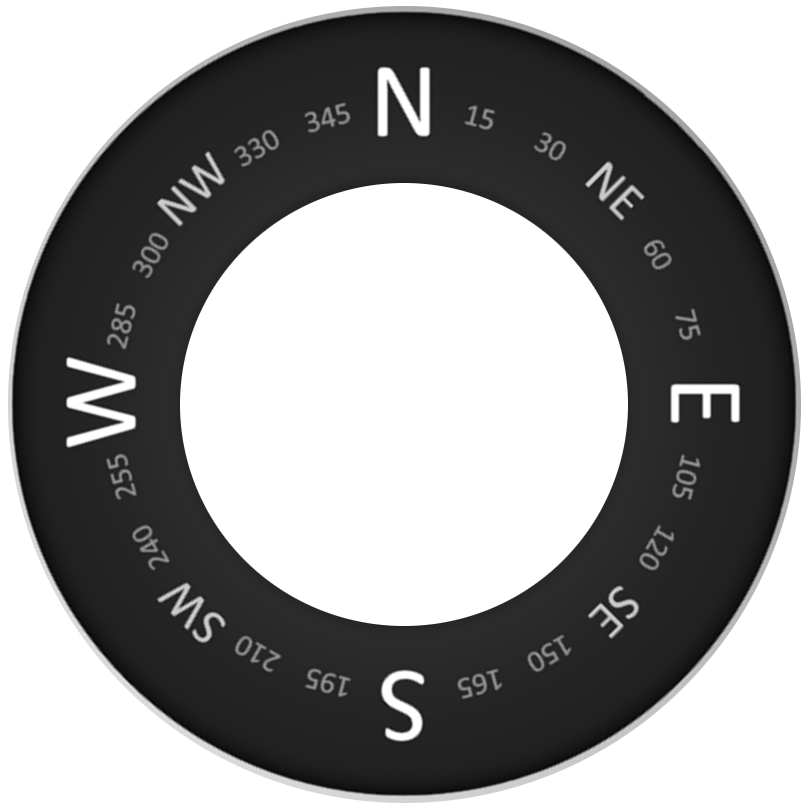
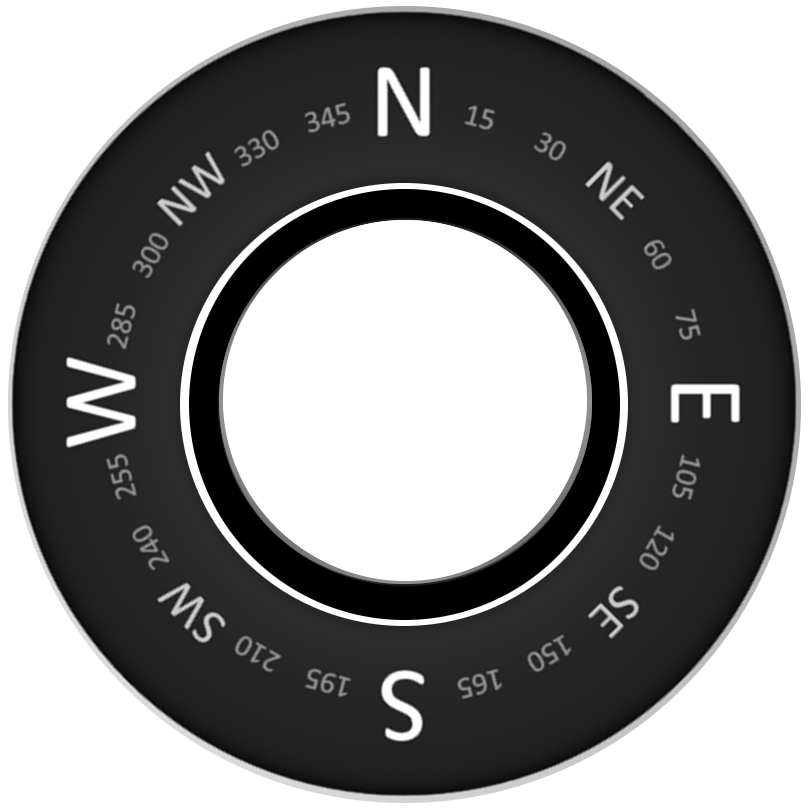
First commit of the gui flat style

Changed region(s): [[0.216, 0.216, 0.7716, 0.7716]]

diff --git a/sdlSpeedometer.c b/sdlSpeedometer.c
@@ -233,7 +233,7 @@ printf("%s\n", buf);
         strcpy(configParams->server,    (char*)sqlite3_column_text(res, 2));
         configParams->port =            sqlite3_column_int(res, 3);
         configParams->vncPort =         sqlite3_column_int(res, 4);
-		configParams->style =         	sqlite3_column_int(res, 5);
+        configParams->style =         	sqlite3_column_int(res, 5);
         strcpy(configParams->snd_card,  (char*)sqlite3_column_text(res, 6));
         strcpy(configParams->cam_url,   (char*)sqlite3_column_text(res, 7));
     } else {
@@ -1565,6 +1565,7 @@ static int doCompass(sdl2_app *sdlApp)
     TTF_Font* fontTod = TTF_OpenFont(sdlApp->fontPath, 16);
 
 	SDL_Texture* compassRose;
+    SDL_Texture* textBox;
     SDL_Texture* outerRing = IMG_LoadTexture(sdlApp->renderer, IMAGE_PATH "outerRing.png");
     SDL_Texture* windDir = IMG_LoadTexture(sdlApp->renderer, IMAGE_PATH "windDir.png");
     SDL_Texture* menuBar = IMG_LoadTexture(sdlApp->renderer, IMAGE_PATH "menuBar.png");
@@ -1572,16 +1573,17 @@ static int doCompass(sdl2_app *sdlApp)
     SDL_Texture* noNetStatbar = IMG_LoadTexture(sdlApp->renderer, IMAGE_PATH "noNetStat.png");
     SDL_Texture* muteBar = IMG_LoadTexture(sdlApp->renderer, IMAGE_PATH "mute.png");
     SDL_Texture* unmuteBar = IMG_LoadTexture(sdlApp->renderer, IMAGE_PATH "unmute.png");
-    SDL_Texture* textBox = IMG_LoadTexture(sdlApp->renderer, IMAGE_PATH "textBox.png");
     SDL_Texture* clinoMeter = IMG_LoadTexture(sdlApp->renderer, IMAGE_PATH "clinometer.png");
 
     SDL_Texture* calBar = NULL;
 
-	if (sdlApp->conf->style == 0) {
-		compassRose = IMG_LoadTexture(sdlApp->renderer, IMAGE_PATH "compassRose.png");
-	} else {
-		compassRose = IMG_LoadTexture(sdlApp->renderer, IMAGE_PATH "compassRose-flat.png");
-	}
+    if (sdlApp->conf->style == 0) {
+        compassRose = IMG_LoadTexture(sdlApp->renderer, IMAGE_PATH "compassRose.png");
+        textBox = IMG_LoadTexture(sdlApp->renderer, IMAGE_PATH "textBox.png");
+    } else {
+        compassRose = IMG_LoadTexture(sdlApp->renderer, IMAGE_PATH "compassRose-flat.png");
+        textBox = IMG_LoadTexture(sdlApp->renderer, IMAGE_PATH "textBox-flat.png");
+    }
 
     sdlApp->curPage = COGPAGE;
 
@@ -1748,7 +1750,8 @@ static int doCompass(sdl2_app *sdlApp)
 
         SDL_RenderClear(sdlApp->renderer);
 
-        SDL_RenderCopy(sdlApp->renderer, Background_Tx, NULL, NULL);
+        if (sdlApp->conf->style == 0)
+            SDL_RenderCopy(sdlApp->renderer, Background_Tx, NULL, NULL);
 
         if (sdlApp->conf->style == 0)
             SDL_RenderCopyEx(sdlApp->renderer, outerRing, NULL, &outerRingR, 0, NULL, SDL_FLIP_NONE);
@@ -1820,7 +1823,7 @@ static int doCompass(sdl2_app *sdlApp)
         SDL_RenderCopyEx(sdlApp->renderer, menuBar, NULL, &menuBarR, 0, NULL, SDL_FLIP_NONE);
         addMenuItems(sdlApp, fontSrc);
 
-        if (boxItem && sdlApp->conf->style == 0) {
+        if (boxItem) {
             textBoxR.h = boxItem*50 +30;
             SDL_RenderCopyEx(sdlApp->renderer, textBox, NULL, &textBoxR, 0, NULL, SDL_FLIP_NONE);
         }
@@ -1916,11 +1919,13 @@ static int doSumlog(sdl2_app *sdlApp)
 
     sdlApp->curPage = SOGPAGE;
 
-	if (sdlApp->conf->style == 0) {
-		gaugeSumlog = IMG_LoadTexture(sdlApp->renderer, IMAGE_PATH "sumlog.png");
-	} else {
-		gaugeSumlog = IMG_LoadTexture(sdlApp->renderer, IMAGE_PATH "sumlog-flat.png");
-	}
+    if (sdlApp->conf->style == 0) {
+        gaugeSumlog = IMG_LoadTexture(sdlApp->renderer, IMAGE_PATH "sumlog.png");
+        textBox = IMG_LoadTexture(sdlApp->renderer, IMAGE_PATH "textBox.png");
+    } else {
+        gaugeSumlog = IMG_LoadTexture(sdlApp->renderer, IMAGE_PATH "sumlog-flat.png");
+        textBox = IMG_LoadTexture(sdlApp->renderer, IMAGE_PATH "textBox-flat.png");
+    }
 
     SDL_Texture* subTaskbar = NULL;
 
@@ -2049,7 +2054,8 @@ static int doSumlog(sdl2_app *sdlApp)
 
         SDL_RenderClear(sdlApp->renderer);
 
-        SDL_RenderCopy(sdlApp->renderer, Background_Tx, NULL, NULL);
+        if (sdlApp->conf->style == 0)
+            SDL_RenderCopy(sdlApp->renderer, Background_Tx, NULL, NULL);
        
         SDL_RenderCopyEx(sdlApp->renderer, gaugeSumlog, NULL, &gaugeR, 0, NULL, SDL_FLIP_NONE);
 
@@ -2103,7 +2109,7 @@ static int doSumlog(sdl2_app *sdlApp)
             }
         }
 
-        if (boxItem && sdlApp->conf->style == 0) {
+        if (boxItem) {
             textBoxR.h = boxItem*50 +30;
             SDL_RenderCopyEx(sdlApp->renderer, textBox, NULL, &textBoxR, 0, NULL, SDL_FLIP_NONE);
         }
@@ -2155,7 +2161,7 @@ static int doGps(sdl2_app *sdlApp)
     TTF_Font* fontSrc = TTF_OpenFont(sdlApp->fontPath, 14);
     TTF_Font* fontTod = TTF_OpenFont(sdlApp->fontPath, 16);
 
-    SDL_Texture* gaugeGps = IMG_LoadTexture(sdlApp->renderer, IMAGE_PATH "gps.png");
+    SDL_Texture* gaugeGps;
     SDL_Texture* menuBar = IMG_LoadTexture(sdlApp->renderer, IMAGE_PATH "menuBar.png");
     SDL_Texture* netStatBar = IMG_LoadTexture(sdlApp->renderer, IMAGE_PATH "netStat.png");
     SDL_Texture* noNetStatbar = IMG_LoadTexture(sdlApp->renderer, IMAGE_PATH "noNetStat.png");
@@ -2164,6 +2170,14 @@ static int doGps(sdl2_app *sdlApp)
     SDL_Texture* textBox = IMG_LoadTexture(sdlApp->renderer, IMAGE_PATH "textBox.png");
       
     sdlApp->curPage = GPSPAGE;
+
+    if (sdlApp->conf->style == 0) {
+        gaugeGps = IMG_LoadTexture(sdlApp->renderer, IMAGE_PATH "gps.png");
+        textBox = IMG_LoadTexture(sdlApp->renderer, IMAGE_PATH "textBox.png");
+    } else {
+        gaugeGps = IMG_LoadTexture(sdlApp->renderer, IMAGE_PATH "gps-flat.png");
+        textBox = IMG_LoadTexture(sdlApp->renderer, IMAGE_PATH "textBox-flat.png");
+    }
   
     SDL_Texture* subTaskbar = NULL;
 
@@ -2270,7 +2284,15 @@ static int doGps(sdl2_app *sdlApp)
 
         SDL_UnlockMutex(sdlApp->conf->nm_mutex);
 
-        SDL_RenderCopy(sdlApp->renderer, Background_Tx, NULL, NULL);
+        if (sdlApp->conf->style == 0)
+            SDL_SetRenderDrawColor(sdlApp->renderer, 0, 0, 0, 255);
+        else
+            SDL_SetRenderDrawColor(sdlApp->renderer, 105, 100, 110, 255);
+
+        SDL_RenderClear(sdlApp->renderer);
+
+        if (sdlApp->conf->style == 0)
+            SDL_RenderCopy(sdlApp->renderer, Background_Tx, NULL, NULL);
        
         SDL_RenderCopyEx(sdlApp->renderer, gaugeGps, NULL, &gaugeR, 0, NULL, SDL_FLIP_NONE);
 
@@ -2377,19 +2399,31 @@ static int doDepth(sdl2_app *sdlApp)
     TTF_Font* fontSrc = TTF_OpenFont(sdlApp->fontPath, 14);
     TTF_Font* fontTod = TTF_OpenFont(sdlApp->fontPath, 16);
 
-    SDL_Texture* gaugeDepthW = IMG_LoadTexture(sdlApp->renderer, IMAGE_PATH "depthw.png");
-    SDL_Texture* gaugeDepth = IMG_LoadTexture(sdlApp->renderer, IMAGE_PATH "depth.png");
-    SDL_Texture* gaugeDepthx10 = IMG_LoadTexture(sdlApp->renderer, IMAGE_PATH "depthx10.png");
+    SDL_Texture* gaugeDepthW;
+    SDL_Texture* gaugeDepth;
+    SDL_Texture* gaugeDepthx10;
+    SDL_Texture* textBox;
     SDL_Texture* menuBar = IMG_LoadTexture(sdlApp->renderer, IMAGE_PATH "menuBar.png");
     SDL_Texture* netStatBar = IMG_LoadTexture(sdlApp->renderer, IMAGE_PATH "netStat.png");
     SDL_Texture* noNetStatbar = IMG_LoadTexture(sdlApp->renderer, IMAGE_PATH "noNetStat.png");
     SDL_Texture* gaugeNeedleApp = IMG_LoadTexture(sdlApp->renderer, IMAGE_PATH "needle.png");
     SDL_Texture* muteBar = IMG_LoadTexture(sdlApp->renderer, IMAGE_PATH "mute.png");
     SDL_Texture* unmuteBar = IMG_LoadTexture(sdlApp->renderer, IMAGE_PATH "unmute.png");
-    SDL_Texture* textBox = IMG_LoadTexture(sdlApp->renderer, IMAGE_PATH "textBox.png");
     SDL_Texture* gauge;
 
     sdlApp->curPage = DPTPAGE;
+
+    if (sdlApp->conf->style == 0) {
+        gaugeDepthW = IMG_LoadTexture(sdlApp->renderer, IMAGE_PATH "depthw.png");
+        gaugeDepthx10 = IMG_LoadTexture(sdlApp->renderer, IMAGE_PATH "depthx10.png");
+        gaugeDepth = IMG_LoadTexture(sdlApp->renderer, IMAGE_PATH "depth.png");
+        textBox = IMG_LoadTexture(sdlApp->renderer, IMAGE_PATH "textBox.png");
+    } else {
+        gaugeDepthW = IMG_LoadTexture(sdlApp->renderer, IMAGE_PATH "depthw-flat.png");
+        gaugeDepthx10 = IMG_LoadTexture(sdlApp->renderer, IMAGE_PATH "depthx10-flat.png");
+        gaugeDepth = IMG_LoadTexture(sdlApp->renderer, IMAGE_PATH "depth-flat.png");
+        textBox = IMG_LoadTexture(sdlApp->renderer, IMAGE_PATH "textBox-flat.png");
+    }
 
     SDL_Texture* subTaskbar = NULL;
 
@@ -2523,7 +2557,15 @@ static int doDepth(sdl2_app *sdlApp)
         if (angle > t_angle) t_angle += 3.2 * (fabsf(angle -t_angle) / 24) ;
         else if (angle < t_angle) t_angle -= 3.2 * (fabsf(angle -t_angle) / 24);
 
-        SDL_RenderCopy(sdlApp->renderer, Background_Tx, NULL, NULL);
+        if (sdlApp->conf->style == 0)
+            SDL_SetRenderDrawColor(sdlApp->renderer, 0, 0, 0, 255);
+        else
+            SDL_SetRenderDrawColor(sdlApp->renderer, 105, 100, 110, 255);
+
+        SDL_RenderClear(sdlApp->renderer);
+
+        if (sdlApp->conf->style == 0)
+            SDL_RenderCopy(sdlApp->renderer, Background_Tx, NULL, NULL);
     
         if (!sdlApp->plotMode) {
             SDL_RenderCopyEx(sdlApp->renderer, gauge, NULL, &gaugeR, 0, NULL, SDL_FLIP_NONE);
@@ -2846,7 +2888,8 @@ static int doWind(sdl2_app *sdlApp)
     TTF_Font* fontSrc = TTF_OpenFont(sdlApp->fontPath, 14);
     TTF_Font* fontTod = TTF_OpenFont(sdlApp->fontPath, 16);
 
-    SDL_Texture* gaugeSumlog = IMG_LoadTexture(sdlApp->renderer, IMAGE_PATH "wind.png");
+    SDL_Texture* gaugeWind;
+    SDL_Texture* textBox;
     SDL_Texture* gaugeNeedleApp = IMG_LoadTexture(sdlApp->renderer, IMAGE_PATH "needle.png");
     SDL_Texture* gaugeNeedleTrue = IMG_LoadTexture(sdlApp->renderer, IMAGE_PATH "needle-black.png");
     SDL_Texture* menuBar = IMG_LoadTexture(sdlApp->renderer, IMAGE_PATH "menuBar.png");
@@ -2854,11 +2897,18 @@ static int doWind(sdl2_app *sdlApp)
     SDL_Texture* noNetStatbar = IMG_LoadTexture(sdlApp->renderer, IMAGE_PATH "noNetStat.png");
     SDL_Texture* muteBar = IMG_LoadTexture(sdlApp->renderer, IMAGE_PATH "mute.png");
     SDL_Texture* unmuteBar = IMG_LoadTexture(sdlApp->renderer, IMAGE_PATH "unmute.png");
-    SDL_Texture* textBox = IMG_LoadTexture(sdlApp->renderer, IMAGE_PATH "textBox.png");
 
     sdlApp->curPage = WNDPAGE;
 
     SDL_Texture* subTaskbar = NULL;
+
+    if (sdlApp->conf->style == 0) {
+        textBox = IMG_LoadTexture(sdlApp->renderer, IMAGE_PATH "textBox.png");
+        gaugeWind = IMG_LoadTexture(sdlApp->renderer, IMAGE_PATH "wind.png");
+    } else {
+        textBox = IMG_LoadTexture(sdlApp->renderer, IMAGE_PATH "textBox-flat.png");
+        gaugeWind = IMG_LoadTexture(sdlApp->renderer, IMAGE_PATH "wind-flat.png");
+    }
 
     if (sdlApp->subAppsCmd[sdlApp->curPage][0] != NULL) {
         char icon[PATH_MAX];
@@ -2995,9 +3045,17 @@ static int doWind(sdl2_app *sdlApp)
         if (angle_t > t_angle_t) t_angle_t += 3.2 * (fabsf(angle_t -t_angle_t) / 24) ;
         else if (angle_t < t_angle_t) t_angle_t -= 3.2 * (fabsf(angle_t -t_angle_t) / 24);
 
-        SDL_RenderCopy(sdlApp->renderer, Background_Tx, NULL, NULL);
+        if (sdlApp->conf->style == 0)
+            SDL_SetRenderDrawColor(sdlApp->renderer, 0, 0, 0, 255);
+        else
+            SDL_SetRenderDrawColor(sdlApp->renderer, 105, 100, 110, 255);
+
+        SDL_RenderClear(sdlApp->renderer);
+
+        if (sdlApp->conf->style == 0)
+            SDL_RenderCopy(sdlApp->renderer, Background_Tx, NULL, NULL);
        
-        SDL_RenderCopyEx(sdlApp->renderer, gaugeSumlog, NULL, &gaugeR, 0, NULL, SDL_FLIP_NONE);
+        SDL_RenderCopyEx(sdlApp->renderer, gaugeWind, NULL, &gaugeR, 0, NULL, SDL_FLIP_NONE);
 
         if (!(ct - cnmea.vwr_ts > S_TIMEOUT || cnmea.vwra == 0))
             SDL_RenderCopyEx(sdlApp->renderer, gaugeNeedleApp, NULL, &needleR, t_angle_a, NULL, SDL_FLIP_NONE);
@@ -3082,7 +3140,7 @@ static int doWind(sdl2_app *sdlApp)
     if (subTaskbar != NULL) {
         SDL_DestroyTexture(subTaskbar);
     }
-    SDL_DestroyTexture(gaugeSumlog);
+    SDL_DestroyTexture(gaugeWind);
     SDL_DestroyTexture(gaugeNeedleApp);
     SDL_DestroyTexture(gaugeNeedleTrue);
     SDL_DestroyTexture(menuBar);
@@ -3130,16 +3188,27 @@ static int doEnvironment(sdl2_app *sdlApp)
     SDL_Texture* noNetStatbar = IMG_LoadTexture(sdlApp->renderer, IMAGE_PATH "noNetStat.png");
     SDL_Texture* muteBar = IMG_LoadTexture(sdlApp->renderer, IMAGE_PATH "mute.png");
     SDL_Texture* unmuteBar = IMG_LoadTexture(sdlApp->renderer, IMAGE_PATH "unmute.png");
-
-    SDL_Texture* gaugeVolt = IMG_LoadTexture(sdlApp->renderer, IMAGE_PATH "volt.png");
-    SDL_Texture* gaugeVolt24 = IMG_LoadTexture(sdlApp->renderer, IMAGE_PATH "volt-24.png");
-    SDL_Texture* gaugeCurr = IMG_LoadTexture(sdlApp->renderer, IMAGE_PATH "curr.png");
-    SDL_Texture* gaugeTemp = IMG_LoadTexture(sdlApp->renderer, IMAGE_PATH "temp.png");
     SDL_Texture* needleVolt = IMG_LoadTexture(sdlApp->renderer, IMAGE_PATH "sneedle.png");
     SDL_Texture* needleCurr = IMG_LoadTexture(sdlApp->renderer, IMAGE_PATH "sneedle.png");
     SDL_Texture* needleTemp = IMG_LoadTexture(sdlApp->renderer, IMAGE_PATH "sneedle.png");
+    SDL_Texture* gaugeVolt;
+    SDL_Texture* gaugeVolt24;
+    SDL_Texture* gaugeCurr;
+    SDL_Texture* gaugeTemp ;
 
     sdlApp->curPage = PWRPAGE;
+
+    if (sdlApp->conf->style == 0) {
+        gaugeVolt = IMG_LoadTexture(sdlApp->renderer, IMAGE_PATH "volt.png");
+        gaugeVolt24 = IMG_LoadTexture(sdlApp->renderer, IMAGE_PATH "volt-24.png");
+        gaugeCurr = IMG_LoadTexture(sdlApp->renderer, IMAGE_PATH "curr.png");
+        gaugeTemp = IMG_LoadTexture(sdlApp->renderer, IMAGE_PATH "temp.png");
+    } else {
+        gaugeVolt = IMG_LoadTexture(sdlApp->renderer, IMAGE_PATH "volt-flat.png");
+        gaugeVolt24 = IMG_LoadTexture(sdlApp->renderer, IMAGE_PATH "volt-24-flat.png");
+        gaugeCurr = IMG_LoadTexture(sdlApp->renderer, IMAGE_PATH "curr-flat.png");
+        gaugeTemp = IMG_LoadTexture(sdlApp->renderer, IMAGE_PATH "temp-flat.png");
+    }
 
     SDL_Texture* subTaskbar = NULL;
 
@@ -3315,7 +3384,15 @@ static int doEnvironment(sdl2_app *sdlApp)
 
         SDL_RenderClear(sdlApp->renderer);
 
-        SDL_RenderCopy(sdlApp->renderer, Background_Tx, NULL, NULL);
+        if (sdlApp->conf->style == 0)
+            SDL_SetRenderDrawColor(sdlApp->renderer, 0, 0, 0, 255);
+        else
+            SDL_SetRenderDrawColor(sdlApp->renderer, 105, 100, 110, 255);
+
+        SDL_RenderClear(sdlApp->renderer);
+
+        if (sdlApp->conf->style == 0)
+            SDL_RenderCopy(sdlApp->renderer, Background_Tx, NULL, NULL);
 
         SDL_RenderCopyEx(sdlApp->renderer, cnmea.volt < v_max? gaugeVolt:gaugeVolt24, NULL, &gaugeVoltR, 0, NULL, SDL_FLIP_NONE);
         SDL_RenderCopyEx(sdlApp->renderer, gaugeCurr, NULL, &gaugeCurrR, 0, NULL, SDL_FLIP_NONE);
@@ -4940,13 +5017,13 @@ static int doWater(sdl2_app *sdlApp)
     TTF_Font* fontSrc = TTF_OpenFont(sdlApp->fontPath, 14);
     TTF_Font* fontTod = TTF_OpenFont(sdlApp->fontPath, 16);
 
-    SDL_Texture* gaugeWtr = IMG_LoadTexture(sdlApp->renderer, IMAGE_PATH "dflow.png");
     SDL_Texture* menuBar = IMG_LoadTexture(sdlApp->renderer, IMAGE_PATH "menuBar.png");
     SDL_Texture* netStatBar = IMG_LoadTexture(sdlApp->renderer, IMAGE_PATH "netStat.png");
     SDL_Texture* noNetStatbar = IMG_LoadTexture(sdlApp->renderer, IMAGE_PATH "noNetStat.png");
     SDL_Texture* muteBar = IMG_LoadTexture(sdlApp->renderer, IMAGE_PATH "mute.png");
     SDL_Texture* unmuteBar = IMG_LoadTexture(sdlApp->renderer, IMAGE_PATH "unmute.png");
     SDL_Texture* textBox = IMG_LoadTexture(sdlApp->renderer, IMAGE_PATH "textBox.png");
+    SDL_Texture* gaugeWtr;
 
     SDL_Rect menuBarR       = {400,400,393,50};
     SDL_Rect netStatbarR    = {20,20,25,25};
@@ -4956,6 +5033,11 @@ static int doWater(sdl2_app *sdlApp)
 
     SDL_Rect gaugeR         = {19,18,440,440};
 
+
+    if (sdlApp->conf->style == 0)
+        gaugeWtr = IMG_LoadTexture(sdlApp->renderer, IMAGE_PATH "dflow.png");
+    else
+        gaugeWtr = IMG_LoadTexture(sdlApp->renderer, IMAGE_PATH "dflow-flat.png");
 
     int boxItems[] = {120,170,220,270,320};
 
@@ -5040,8 +5122,16 @@ static int doWater(sdl2_app *sdlApp)
             sprintf(msg_gtv, "GTVL: %.0f", cnmea.gvol); 
             sprintf(msg_use, "USED: %.0f", cnmea.tvol);
         }
+
+        if (sdlApp->conf->style == 0)
+            SDL_SetRenderDrawColor(sdlApp->renderer, 0, 0, 0, 255);
+        else
+            SDL_SetRenderDrawColor(sdlApp->renderer, 105, 100, 110, 255);
+
+        SDL_RenderClear(sdlApp->renderer);
         
-        SDL_RenderCopy(sdlApp->renderer, Background_Tx, NULL, NULL);
+        if (sdlApp->conf->style == 0)
+            SDL_RenderCopy(sdlApp->renderer, Background_Tx, NULL, NULL);
        
         SDL_RenderCopyEx(sdlApp->renderer, gaugeWtr, NULL, &gaugeR, 0, NULL, SDL_FLIP_NONE);
 
@@ -5297,8 +5387,8 @@ static int doCalibration(sdl2_app *sdlApp, configuration *configParams)
 
         SDL_RenderClear(sdlApp->renderer);
 
-        SDL_RenderCopy(sdlApp->renderer, Background_Tx, NULL, NULL);
-
+        if (sdlApp->conf->style == 0)
+            SDL_RenderCopy(sdlApp->renderer, Background_Tx, NULL, NULL);
 
         if (seconds ++ > 10) {
             sprintf(msg_cal, "Calibration about to begin in %d seconds", progress--);
@@ -5341,7 +5431,8 @@ static int doCalibration(sdl2_app *sdlApp, configuration *configParams)
                 } else SDL_DetachThread(threadCalib);
             }
 
-            SDL_RenderCopy(sdlApp->renderer, Background_Tx, NULL, NULL);
+            if (sdlApp->conf->style == 0)
+                SDL_RenderCopy(sdlApp->renderer, Background_Tx, NULL, NULL);
 
             if (seconds++ > 10) {
                 sprintf(msg_cal, "Calibration in progress for %d more seconds", progress--);
@@ -5566,7 +5657,7 @@ static int openSDL2(configuration *configParams, sdl2_app *sdlApp, int doInit)
 
     }
 
-    if (doInit && configParams->style == 0) {
+    if (doInit) {
         if ((Loading_Surf = SDL_LoadBMP(DEFAULT_BACKGROUND)) != NULL) {
             Background_Tx = SDL_CreateTextureFromSurface(sdlApp->renderer, Loading_Surf);
             SDL_FreeSurface(Loading_Surf);
